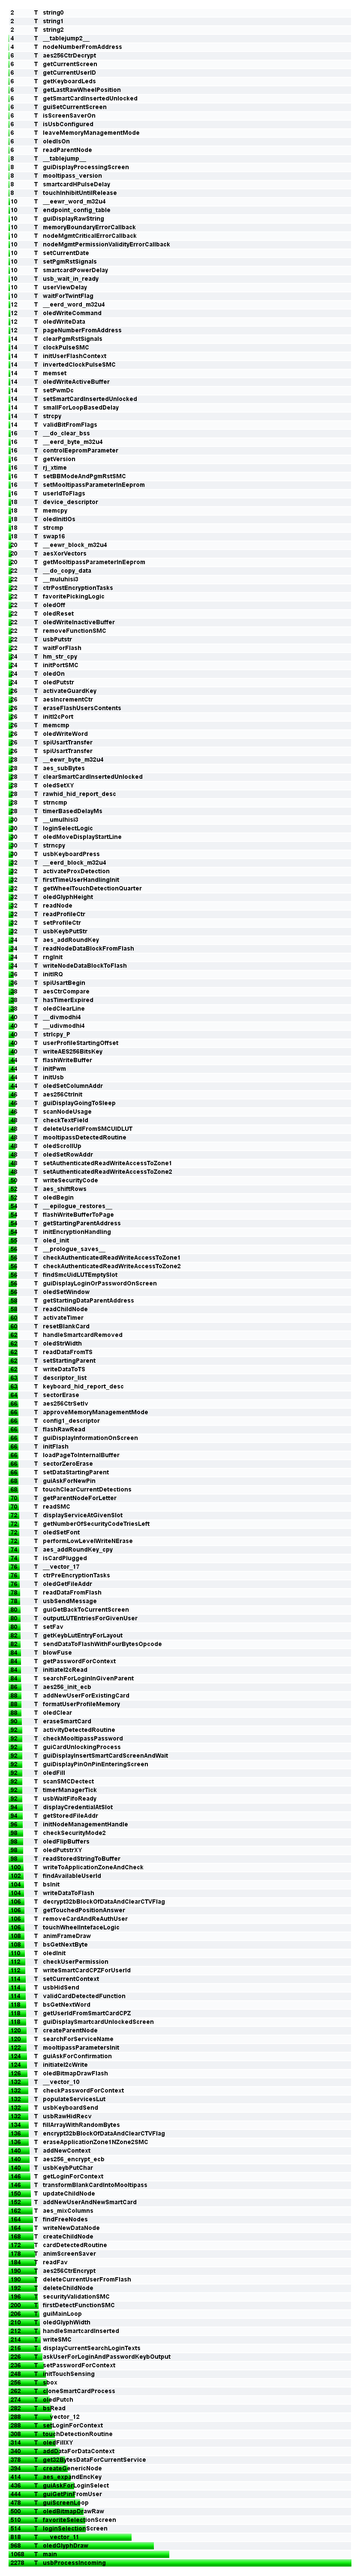
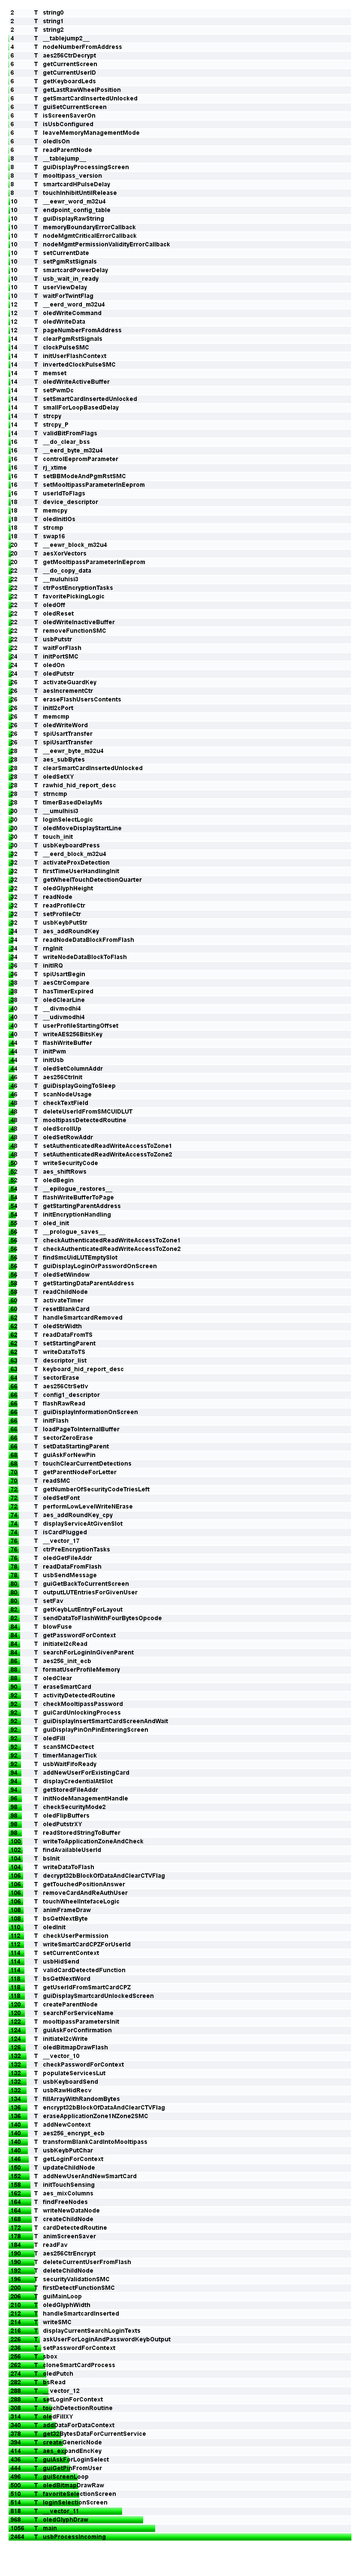
size optimizations

Changed region(s): [[0.0, 0.0, 0.4952, 0.9966], [0.4024, 0.9655, 0.4643, 0.9966], [0.3405, 0.9655, 0.3714, 0.9966]]

diff --git a/source_code/src/GUI/gui_screen_functions.c b/source_code/src/GUI/gui_screen_functions.c
@@ -66,44 +66,29 @@ void guiSetCurrentScreen(uint8_t screen)
 */
 void guiGetBackToCurrentScreen(void)
 {
-    switch(currentScreen)
+    if ((currentScreen == SCREEN_DEFAULT_NINSERTED) || (currentScreen == SCREEN_DEFAULT_INSERTED_LCK))
     {
-        case SCREEN_DEFAULT_NINSERTED :
-        {
-            oledBitmapDrawFlash(0, 0, BITMAP_HAD, OLED_SCROLL_UP);
-            break;
-        }
-        case SCREEN_DEFAULT_INSERTED_LCK :
-        {
-            oledBitmapDrawFlash(0, 0, BITMAP_HAD, OLED_SCROLL_UP);
-            break;
-        }
-        case SCREEN_DEFAULT_INSERTED_NLCK :
-        {
-            oledBitmapDrawFlash(0, 0, BITMAP_MAIN_SCREEN, OLED_SCROLL_UP);
-            break;
-        }
-        case SCREEN_DEFAULT_INSERTED_INVALID :
-        {
-            guiDisplayInformationOnScreen(ID_STRING_REMOVE_CARD);
-            break;
-        }
-        case SCREEN_SETTINGS :
-        {
-            oledBitmapDrawFlash(0, 0, BITMAP_SETTINGS_SC, OLED_SCROLL_UP);
-            break;
-        }
-        case SCREEN_MEMORY_MGMT :
-        {
-            guiDisplayInformationOnScreen(ID_STRING_MEMORYMGMT);
-            break;
-        }
-        case SCREEN_DEFAULT_INSERTED_UNKNOWN :
-        {
-            guiDisplayInformationOnScreen(ID_STRING_CARDID_NFOUND);
-            break;
-        }
-        default : break;
+        oledBitmapDrawFlash(0, 0, BITMAP_HAD, OLED_SCROLL_UP);
+    }
+    else if (currentScreen == SCREEN_DEFAULT_INSERTED_NLCK)
+    {
+        oledBitmapDrawFlash(0, 0, BITMAP_MAIN_SCREEN, OLED_SCROLL_UP);
+    }
+    else if (currentScreen == SCREEN_DEFAULT_INSERTED_INVALID)
+    {
+        guiDisplayInformationOnScreen(ID_STRING_REMOVE_CARD);
+    }
+    else if (currentScreen == SCREEN_SETTINGS)
+    {
+        oledBitmapDrawFlash(0, 0, BITMAP_SETTINGS_SC, OLED_SCROLL_UP);
+    }
+    else if (currentScreen == SCREEN_MEMORY_MGMT)
+    {
+        guiDisplayInformationOnScreen(ID_STRING_MEMORYMGMT);
+    }
+    else if (currentScreen == SCREEN_DEFAULT_INSERTED_UNKNOWN)
+    {
+        guiDisplayInformationOnScreen(ID_STRING_CARDID_NFOUND);
     }
 }
 
@@ -160,171 +145,159 @@ void guiScreenLoop(uint8_t touch_detect_result)
     }
     else
     {
-        switch(state_machine_val)
+        if (state_machine_val == (SCREEN_DEFAULT_INSERTED_NLCK|TOUCHPOS_WHEEL_BRIGHT))
         {
-            case (SCREEN_DEFAULT_INSERTED_NLCK|TOUCHPOS_WHEEL_BRIGHT) :
+            // User wants to lock his mooltipass
+            currentScreen = SCREEN_DEFAULT_INSERTED_LCK;
+            handleSmartcardRemoved();
+            guiGetBackToCurrentScreen();
+        }
+        else if (state_machine_val == (SCREEN_DEFAULT_INSERTED_NLCK|TOUCHPOS_WHEEL_TRIGHT))
+        {
+            // User wants to go to the settings menu
+            currentScreen = SCREEN_SETTINGS;
+            guiGetBackToCurrentScreen();
+        }
+        else if (state_machine_val == (SCREEN_DEFAULT_INSERTED_NLCK|TOUCHPOS_WHEEL_BLEFT))
+        {
+            // User wants to go to the favorite menu
+            favoritePickingLogic();
+            guiGetBackToCurrentScreen();
+        }
+        else if (state_machine_val == (SCREEN_DEFAULT_INSERTED_NLCK|TOUCHPOS_WHEEL_TLEFT))
+        {
+            // User wants to go to the login menu
+            loginSelectLogic();
+            guiGetBackToCurrentScreen();
+        }
+        else if (state_machine_val == (SCREEN_SETTINGS|TOUCHPOS_WHEEL_BLEFT))
+        {
+            // User wants to delete his profile in flash / eeprom....
+            if ((guiAskForConfirmation(1, (confirmationText_t*)readStoredStringToBuffer(ID_STRING_AREYOUSURE)) == RETURN_OK) && (removeCardAndReAuthUser() == RETURN_OK) && (guiAskForConfirmation(1, (confirmationText_t*)readStoredStringToBuffer(ID_STRING_AREYOURLSURE)) == RETURN_OK))
             {
-                // User wants to lock his mooltipass
-                currentScreen = SCREEN_DEFAULT_INSERTED_LCK;
-                handleSmartcardRemoved();
-                guiGetBackToCurrentScreen();
-                break;
-            }
-            case (SCREEN_DEFAULT_INSERTED_NLCK|TOUCHPOS_WHEEL_TRIGHT) :
-            {
-                // User wants to go to the settings menu
-                currentScreen = SCREEN_SETTINGS;
-                guiGetBackToCurrentScreen();
-                break;
-            }
-            case (SCREEN_DEFAULT_INSERTED_NLCK|TOUCHPOS_WHEEL_BLEFT) :
-            {
-                // User wants to go to the favorite menu
-                favoritePickingLogic();
-                guiGetBackToCurrentScreen();
-                break;
-            }
-            case (SCREEN_DEFAULT_INSERTED_NLCK|TOUCHPOS_WHEEL_TLEFT) :
-            {
-                // User wants to go to the login menu
-                loginSelectLogic();
-                guiGetBackToCurrentScreen();
-                break;
-            }
-            case (SCREEN_SETTINGS|TOUCHPOS_WHEEL_BLEFT) :
-            {
-                // User wants to delete his profile in flash / eeprom....
-                if ((guiAskForConfirmation(1, (confirmationText_t*)readStoredStringToBuffer(ID_STRING_AREYOUSURE)) == RETURN_OK) && (removeCardAndReAuthUser() == RETURN_OK) && (guiAskForConfirmation(1, (confirmationText_t*)readStoredStringToBuffer(ID_STRING_AREYOURLSURE)) == RETURN_OK))
-                {
-                    uint8_t currentuserid = getCurrentUserID();
-                    guiDisplayProcessingScreen();
-                    deleteCurrentUserFromFlash();
+                uint8_t currentuserid = getCurrentUserID();
+                guiDisplayProcessingScreen();
+                deleteCurrentUserFromFlash();
                     
-                    if (guiAskForConfirmation(1, (confirmationText_t*)readStoredStringToBuffer(ID_STRING_ERASE_TCARD)) == RETURN_OK)
-                    {
-                        eraseSmartCard();
+                if (guiAskForConfirmation(1, (confirmationText_t*)readStoredStringToBuffer(ID_STRING_ERASE_TCARD)) == RETURN_OK)
+                {
+                    eraseSmartCard();
                         
-                        // Erase other smartcards
-                        while (guiAskForConfirmation(1, (confirmationText_t*)readStoredStringToBuffer(ID_STRING_OTHECARDFUSER)) == RETURN_OK)
-                        {
-                            // Ask the user to insert other smartcards
-                            guiDisplayInformationOnScreen(ID_STRING_INSERT_OTHER);
-                            
-                            // Wait for the user to remove and enter another smartcard
-                            while (isCardPlugged() != RETURN_JRELEASED);
-                            
-                            // Wait for the user to insert a new smart card
-                            while (isCardPlugged() != RETURN_JDETECT);
-                            
-                            // Check the card type & ask user to enter his pin, check that the new user id loaded by validCardDetectedFunction is still the same
-                            if ((cardDetectedRoutine() == RETURN_MOOLTIPASS_USER) && (validCardDetectedFunction() == RETURN_VCARD_OK) && (currentuserid == getCurrentUserID()))
-                            {
-                                eraseSmartCard();
-                            }
-                        }
-                    }                    
-                    
-                    // Delete LUT entries
-                    guiDisplayProcessingScreen();
-                    deleteUserIdFromSMCUIDLUT(currentuserid);
-                    
-                    // Go to invalid screen
-                    currentScreen = SCREEN_DEFAULT_INSERTED_INVALID;
-                }
-                else
-                {
-                    handleSmartcardRemoved();
-                    currentScreen = SCREEN_DEFAULT_INSERTED_LCK;                    
-                }
-                userViewDelay();
-                guiGetBackToCurrentScreen();
-                break;
-            }
-            case (SCREEN_SETTINGS|TOUCHPOS_WHEEL_BRIGHT) :
-            {
-                // User wants to clone his smartcard
-                volatile uint16_t pin_code;
-                RET_TYPE temp_rettype;
-                
-                // Reauth user
-                if (removeCardAndReAuthUser() == RETURN_OK)
-                {
-                    // Ask for new pin
-                    temp_rettype = guiAskForNewPin(&pin_code, ID_STRING_PIN_NEW_CARD);
-                    if (temp_rettype == RETURN_NEW_PIN_OK)
+                    // Erase other smartcards
+                    while (guiAskForConfirmation(1, (confirmationText_t*)readStoredStringToBuffer(ID_STRING_OTHECARDFUSER)) == RETURN_OK)
                     {
-                        // Start the cloning process
-                        if (cloneSmartCardProcess(&pin_code) == RETURN_OK)
+                        // Ask the user to insert other smartcards
+                        guiDisplayInformationOnScreen(ID_STRING_INSERT_OTHER);
+                            
+                        // Wait for the user to remove and enter another smartcard
+                        while (isCardPlugged() != RETURN_JRELEASED);
+                            
+                        // Wait for the user to insert a new smart card
+                        while (isCardPlugged() != RETURN_JDETECT);
+                            
+                        // Check the card type & ask user to enter his pin, check that the new user id loaded by validCardDetectedFunction is still the same
+                        if ((cardDetectedRoutine() == RETURN_MOOLTIPASS_USER) && (validCardDetectedFunction() == RETURN_VCARD_OK) && (currentuserid == getCurrentUserID()))
                         {
-                            // Well it worked....
-                        } 
-                        else
-                        {
-                            currentScreen = SCREEN_DEFAULT_INSERTED_LCK;
-                            guiDisplayInformationOnScreen(ID_STRING_TGT_CARD_NBL);
+                            eraseSmartCard();
                         }
-                        pin_code = 0x0000;
                     }
-                    else if (temp_rettype == RETURN_NEW_PIN_DIFF)
+                }                    
+                    
+                // Delete LUT entries
+                guiDisplayProcessingScreen();
+                deleteUserIdFromSMCUIDLUT(currentuserid);
+                    
+                // Go to invalid screen
+                currentScreen = SCREEN_DEFAULT_INSERTED_INVALID;
+            }
+            else
+            {
+                handleSmartcardRemoved();
+                currentScreen = SCREEN_DEFAULT_INSERTED_LCK;                    
+            }
+            userViewDelay();
+            guiGetBackToCurrentScreen();
+        }
+        else if (state_machine_val == (SCREEN_SETTINGS|TOUCHPOS_WHEEL_BRIGHT))
+        {
+            // User wants to clone his smartcard
+            volatile uint16_t pin_code;
+            RET_TYPE temp_rettype;
+                
+            // Reauth user
+            if (removeCardAndReAuthUser() == RETURN_OK)
+            {
+                // Ask for new pin
+                temp_rettype = guiAskForNewPin(&pin_code, ID_STRING_PIN_NEW_CARD);
+                if (temp_rettype == RETURN_NEW_PIN_OK)
+                {
+                    // Start the cloning process
+                    if (cloneSmartCardProcess(&pin_code) == RETURN_OK)
+                    {
+                        // Well it worked....
+                    } 
+                    else
                     {
                         currentScreen = SCREEN_DEFAULT_INSERTED_LCK;
-                        guiDisplayInformationOnScreen(ID_STRING_PIN_DIFF);                        
-                    }
-                    else
-                    {                        
-                        guiGetBackToCurrentScreen();
-                        break;
-                    }
-                }
-                else
-                {
-                    currentScreen = SCREEN_DEFAULT_INSERTED_LCK;
-                    guiDisplayInformationOnScreen(ID_STRING_FAILED);
-                }
-                userViewDelay();
-                guiGetBackToCurrentScreen();
-                break;
-            }
-            case (SCREEN_SETTINGS|TOUCHPOS_WHEEL_TLEFT) :
-            {
-                // User wants to go to the main menu
-                currentScreen = SCREEN_DEFAULT_INSERTED_NLCK;
-                guiGetBackToCurrentScreen();
-                break;
-            }
-            case (SCREEN_SETTINGS|TOUCHPOS_WHEEL_TRIGHT) :
-            {
-                // User wants to change his PIN code
-                
-                // Reauth user
-                if (removeCardAndReAuthUser() == RETURN_OK)
-                {
-                    // User approved his pin, ask his new one
-                    volatile uint16_t pin_code;
-                                        
-                    if (guiAskForNewPin(&pin_code, ID_STRING_NEW_PINQ) == RETURN_NEW_PIN_OK)
-                    {
-                        // User successfully entered a new pin
-                        writeSecurityCode(&pin_code);
-                        // Inform of success
-                        guiDisplayInformationOnScreen(ID_STRING_PIN_CHANGED);
-                    }
-                    else
-                    {
-                        // Inform of fail
-                        guiDisplayInformationOnScreen(ID_STRING_PIN_NCGHANGED);
+                        guiDisplayInformationOnScreen(ID_STRING_TGT_CARD_NBL);
                     }
                     pin_code = 0x0000;
-                    userViewDelay();
+                }
+                else if (temp_rettype == RETURN_NEW_PIN_DIFF)
+                {
+                    currentScreen = SCREEN_DEFAULT_INSERTED_LCK;
+                    guiDisplayInformationOnScreen(ID_STRING_PIN_DIFF);                        
+                }
+                else
+                {                        
+                    guiGetBackToCurrentScreen();
+                    return;
+                }
+            }
+            else
+            {
+                currentScreen = SCREEN_DEFAULT_INSERTED_LCK;
+                guiDisplayInformationOnScreen(ID_STRING_FAILED);
+            }
+            userViewDelay();
+            guiGetBackToCurrentScreen();
+        }
+        else if (state_machine_val == (SCREEN_SETTINGS|TOUCHPOS_WHEEL_TLEFT))
+        {
+            // User wants to go to the main menu
+            currentScreen = SCREEN_DEFAULT_INSERTED_NLCK;
+            guiGetBackToCurrentScreen();
+        }
+        else if (state_machine_val == (SCREEN_SETTINGS|TOUCHPOS_WHEEL_TRIGHT))
+        {
+            // User wants to change his PIN code
+                
+            // Reauth user
+            if (removeCardAndReAuthUser() == RETURN_OK)
+            {
+                // User approved his pin, ask his new one
+                volatile uint16_t pin_code;
+                                        
+                if (guiAskForNewPin(&pin_code, ID_STRING_NEW_PINQ) == RETURN_NEW_PIN_OK)
+                {
+                    // User successfully entered a new pin
+                    writeSecurityCode(&pin_code);
+                    // Inform of success
+                    guiDisplayInformationOnScreen(ID_STRING_PIN_CHANGED);
                 }
                 else
                 {
-                    currentScreen = SCREEN_DEFAULT_INSERTED_LCK;
+                    // Inform of fail
+                    guiDisplayInformationOnScreen(ID_STRING_PIN_NCGHANGED);
                 }
-                guiGetBackToCurrentScreen();
-                break;
+                pin_code = 0x0000;
+                userViewDelay();
             }
-            default : break;
+            else
+            {
+                currentScreen = SCREEN_DEFAULT_INSERTED_LCK;
+            }
+            guiGetBackToCurrentScreen();
         }
     }    
 }

diff --git a/source_code/src/LOGIC/logic_smartcard.c b/source_code/src/LOGIC/logic_smartcard.c
@@ -86,6 +86,12 @@ RET_TYPE handleSmartcardInserted(void)
             }
             pin_code = 0x0000;
         }
+		else
+		{			
+			guiSetCurrentScreen(next_screen);
+			guiGetBackToCurrentScreen();
+			return return_value;
+		}
         printSmartCardInfo();
     }
     else if (detection_result == RETURN_MOOLTIPASS_USER)
